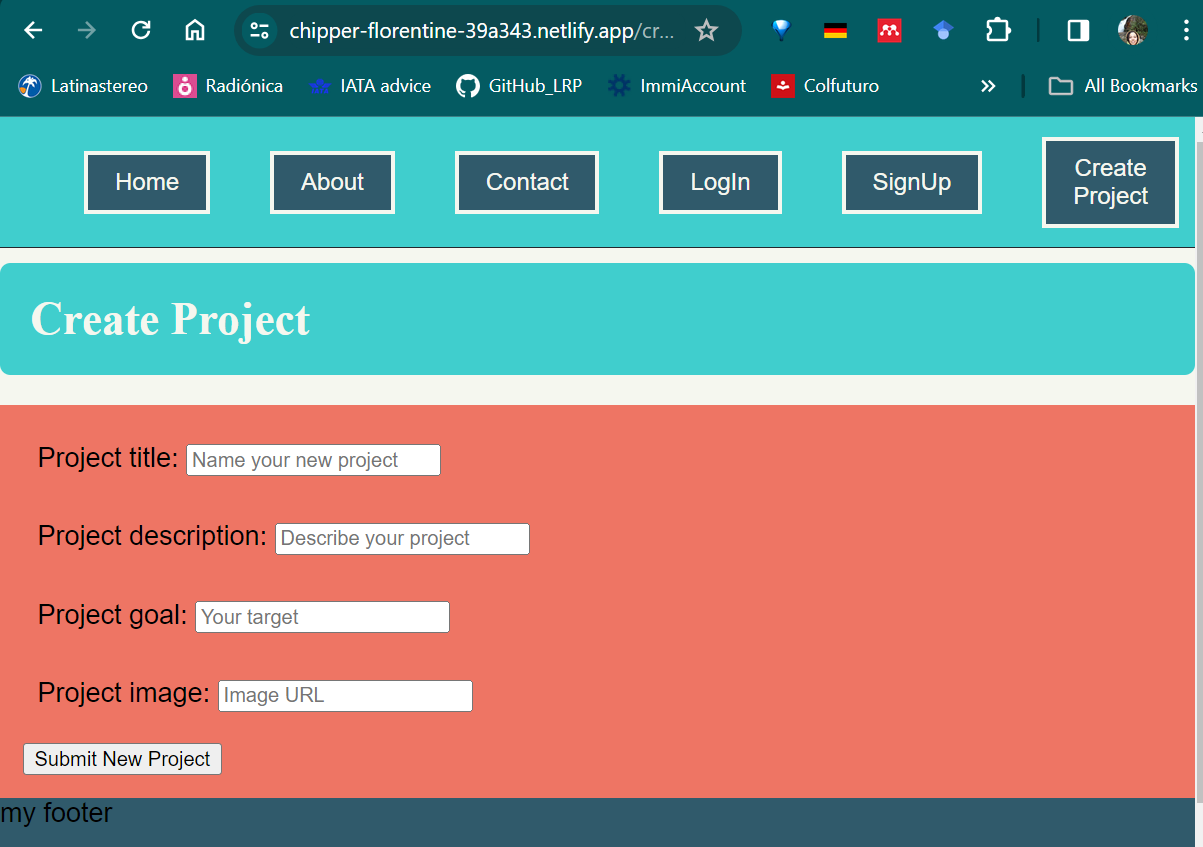
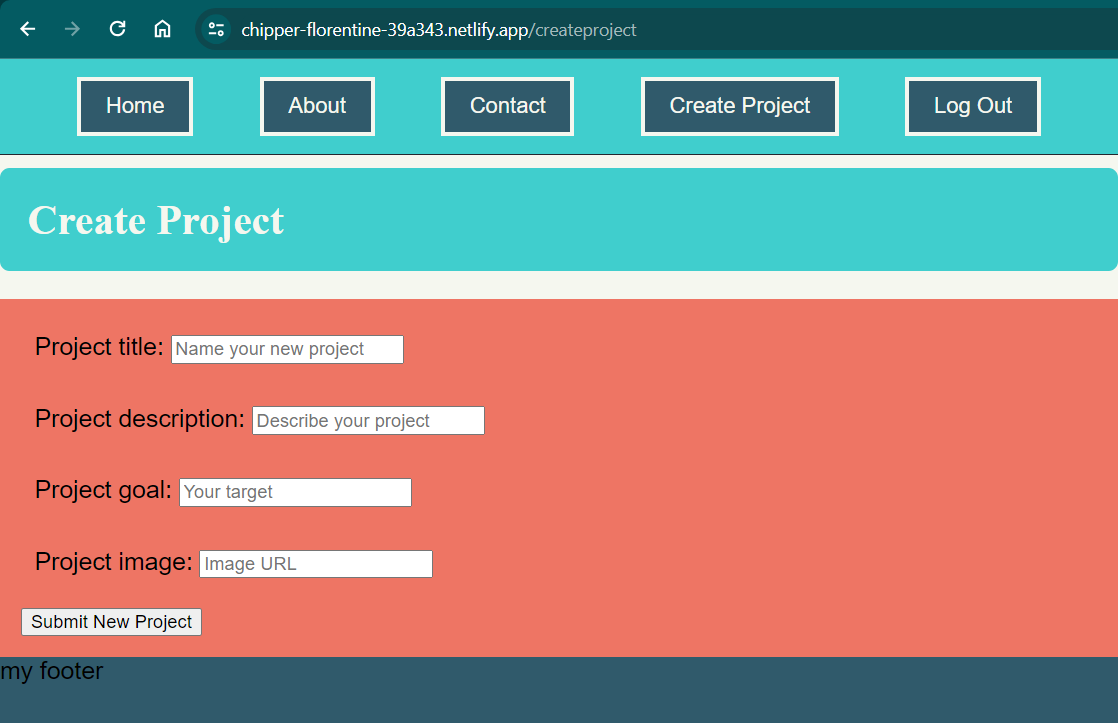
updating readme

diff --git a/src/components/CreateProject.jsx b/src/components/CreateProject.jsx
@@ -29,6 +29,10 @@ function CreateProject() {
             window.alert("Please fill in all fields");
             return;
         }
+        if (newProj.goal < 1000) {
+            window.alert("Project goal must be greater than 1000 AUD");
+            return;
+        }
         try {
             await postProject(newProj);
             console.log(newProj);
@@ -53,7 +57,7 @@ function CreateProject() {
                 </div>
                 <div className="myInput">
                     <label htmlFor="goal">Project goal: </label>
-                    <input type="number" id="goal" onChange={handleChange} placeholder="Your target" />
+                    <input type="number" id="goal" onChange={handleChange} placeholder="Your target" min="1000"/>
                 </div>
                 <div className="myInput">
                     <label htmlFor="image">Project image: </label>

diff --git a/README.md b/README.md
@@ -1,24 +1,31 @@
 # Lanie's FrontEnd project with ReactJS
-this repo contains code that follows the content of the SheCodes Plus Perth Cohort of 2023-24
-Here we intreact with the crowdfunding API built using DFR (see repo in https://github.com/lruizper/crowdfunding_back_end) which was deployed and is available at https://crowdfunding-back-end-lrp.fly.dev/ 
+This repo contains code that follows the content of the SheCodes Plus Perth Cohort of 2023-24.
+Here we interact with the crowdfunding API built using DFR (see repo at https://github.com/lruizper/crowdfunding_back_end) which was deployed and is available at https://crowdfunding-back-end-lrp.fly.dev/.
 
-## Deployed poject
-This project was deployed with Netlify and can be found by clicking this [link here](https://chipper-florentine-39a343.netlify.app/)
+## Deployed project
+This project was deployed with Netlify and can be found by clicking this [link here](https://chipper-florentine-39a343.netlify.app/).
 
-## Homepage
-describe features
 ![Homepage screenshot of deployed site](src/assets/images/HomePage-deployed.png)
+### The navigation bar
+The Nav bar has been set up for displaying across the site, by definition as a component.
+Its key feature is that it responds to the login status. As shown in the image above, before logging in, users will see options for either logging in or creating an account (Sign Up button). In contrast, when logged in, the options to log out and create a project are displayed.
+
+### Listing projects
+The main section of the home page features a grid that displays the existing projects.
+In the future, I would like to filter the list by projects with status 'open' and sort by most recent first.
+
+### Footer
+Similar to the nav bar, it is defined as a stand-alone component that is used on the main page. Currently, the component acts more like a placeholder as it requires content to be added.
 
 ## Project creation page
-describe features
+Only when logged in, users will be able to interact with this page.
+The form is set as a component which updates the state of the fields as they are being filled and then performs checks before submissions, such as avoiding empty fields, and forcing a minimum target of 1000 AUD.
 ![Screenshot of the project creation page](src/assets/images/ProjectCreationPage.png)
-
-## Project creation form
+Upon successful submissions of the new project, the user is directed to the homepage, where the new project will be displayed.
 
 ## Project with pledges
-A project showing the title, description, image and pledges
-![Project with pledges](src/assets/images/Proj-with-Pledge.png)
+The project page showing the basic information of the project, including: title, description, image, and the contributions it has received (pledges).
+If a user has logged in properly, the 'Donate now' section will be visible, otherwise, a message requesting login is displayed.
 
-## Handling unauthorized user
-describe funtionality and show what happens when an unauthorised user attemps to edit a project 
-insert image here
+![Project with pledges](src/assets/images/Proj-with-Pledge.png)
+The contributions that the project has received are listed on the side of the bottom section. In case the project has not received any pledges yet, the user will be encouraged to donate.
